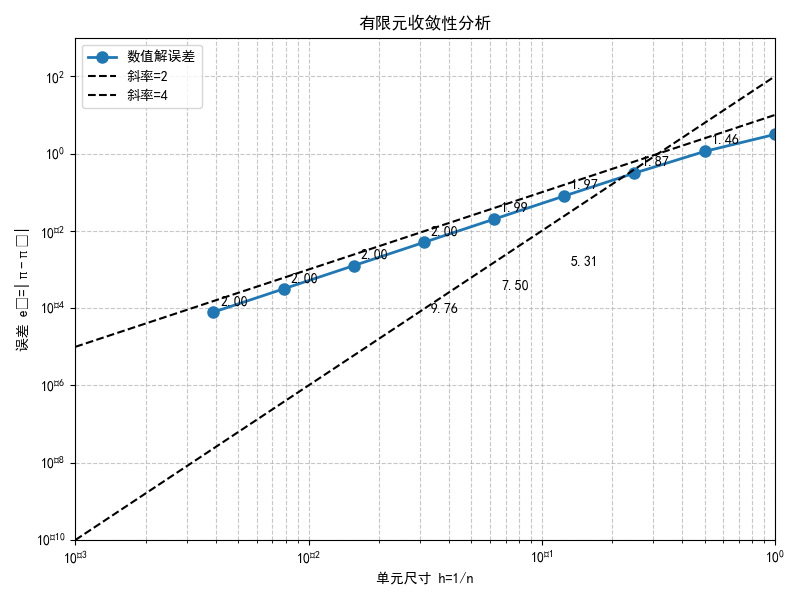
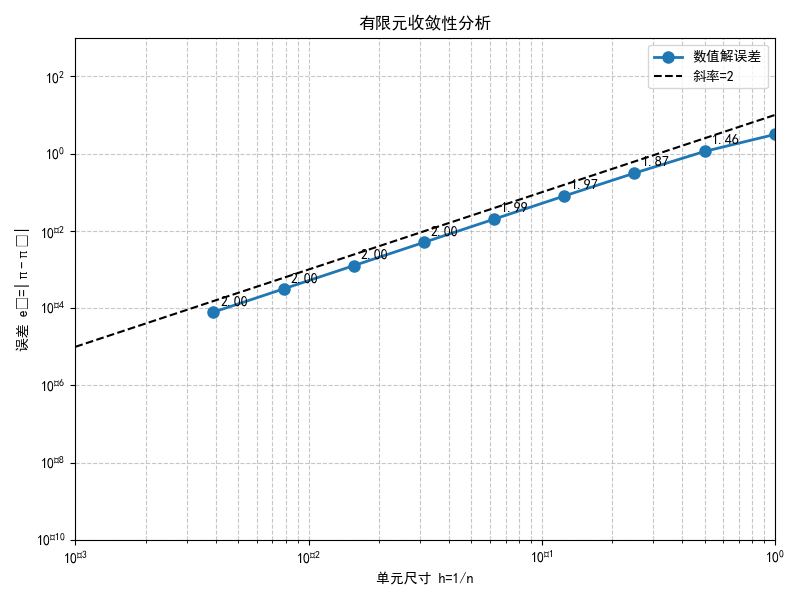
第三次作业

diff --git a/V20260511/yuanzhoulv.py b/V20260511/yuanzhoulv.py
@@ -1,7 +1,7 @@
 import numpy as np
 import matplotlib.pyplot as plt
 
-# 解决中文显示
+# 中文显示
 plt.rcParams['font.sans-serif'] = ['SimHei']
 plt.rcParams['axes.unicode_minus'] = False
 
@@ -18,16 +18,12 @@ plt.loglog(h, error, 'o-', linewidth=2, markersize=8, label='数值解误差')
 # 画两条参考线
 h_ref = np.array([1e-3, 1])
 plt.loglog(h_ref, 10*h_ref**2, 'k--', label='斜率=2')
-plt.loglog(h_ref, 100*h_ref**4, 'k--', label='斜率=4')
-
 # 标注数值
 labels = [
     (h[1], error[1], '1.46'), (h[2], error[2], '1.87'),
     (h[3], error[3], '1.97'), (h[4], error[4], '1.99'),
     (h[5], error[5], '2.00'), (h[6], error[6], '2.00'),
     (h[7], error[7], '2.00'), (h[8], error[8], '2.00'),
-    (h[3], error[3]/100, '5.31'), (h[4], error[4]/100, '7.50'),
-    (h[5], error[5]/100, '9.76')
 ]
 for x, y, text in labels:
     plt.annotate(text, (x, y), xytext=(5,5), textcoords='offset points')